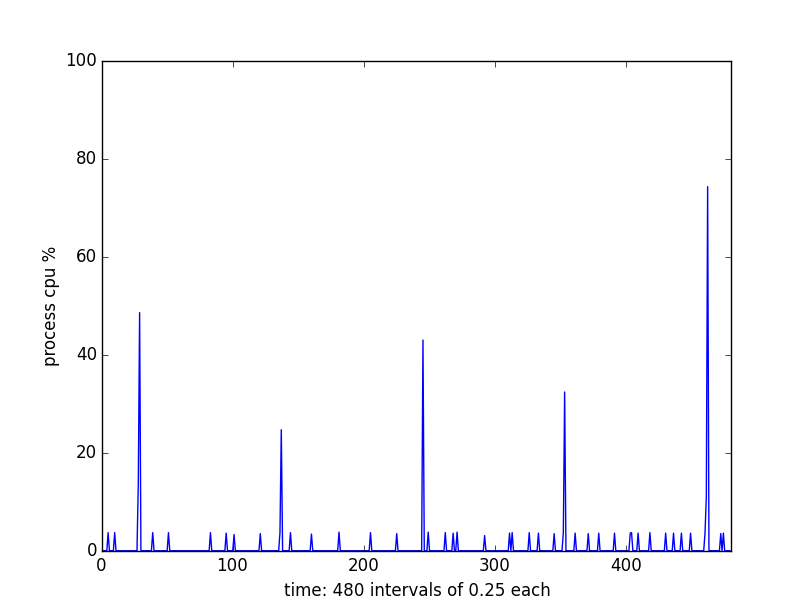
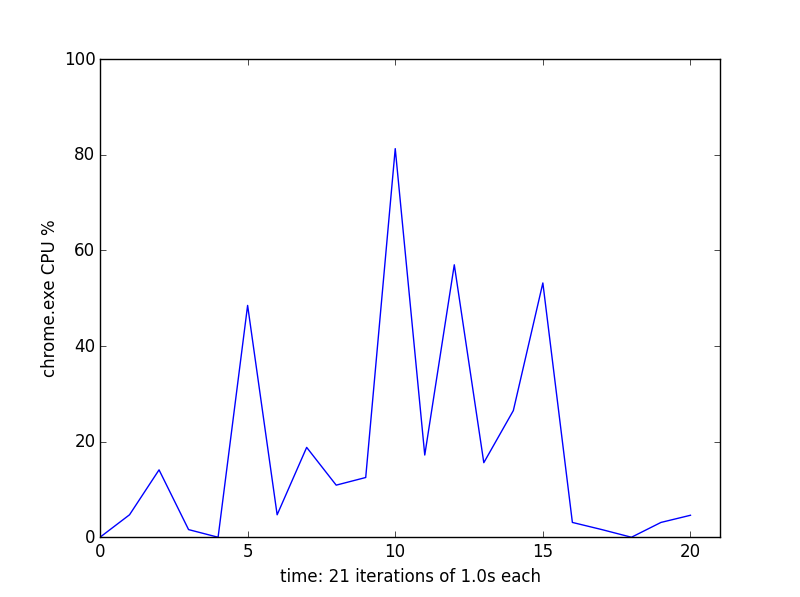
Adds more info on the axis labels

diff --git a/toptoplot.py b/toptoplot.py
@@ -46,7 +46,7 @@ except psutil.NoSuchProcess:
     exit(-1)
 
 plt.plot(values, 'b')
-plt.ylabel('process cpu %')
-plt.xlabel('time: s')
+plt.ylabel(process.name() + ' CPU %')
+plt.xlabel('time: ' + str(iterations) + ' iterations of ' + str(interval) + 's each')
 plt.axis([0, iterations, 0, 100])
 plt.show()
